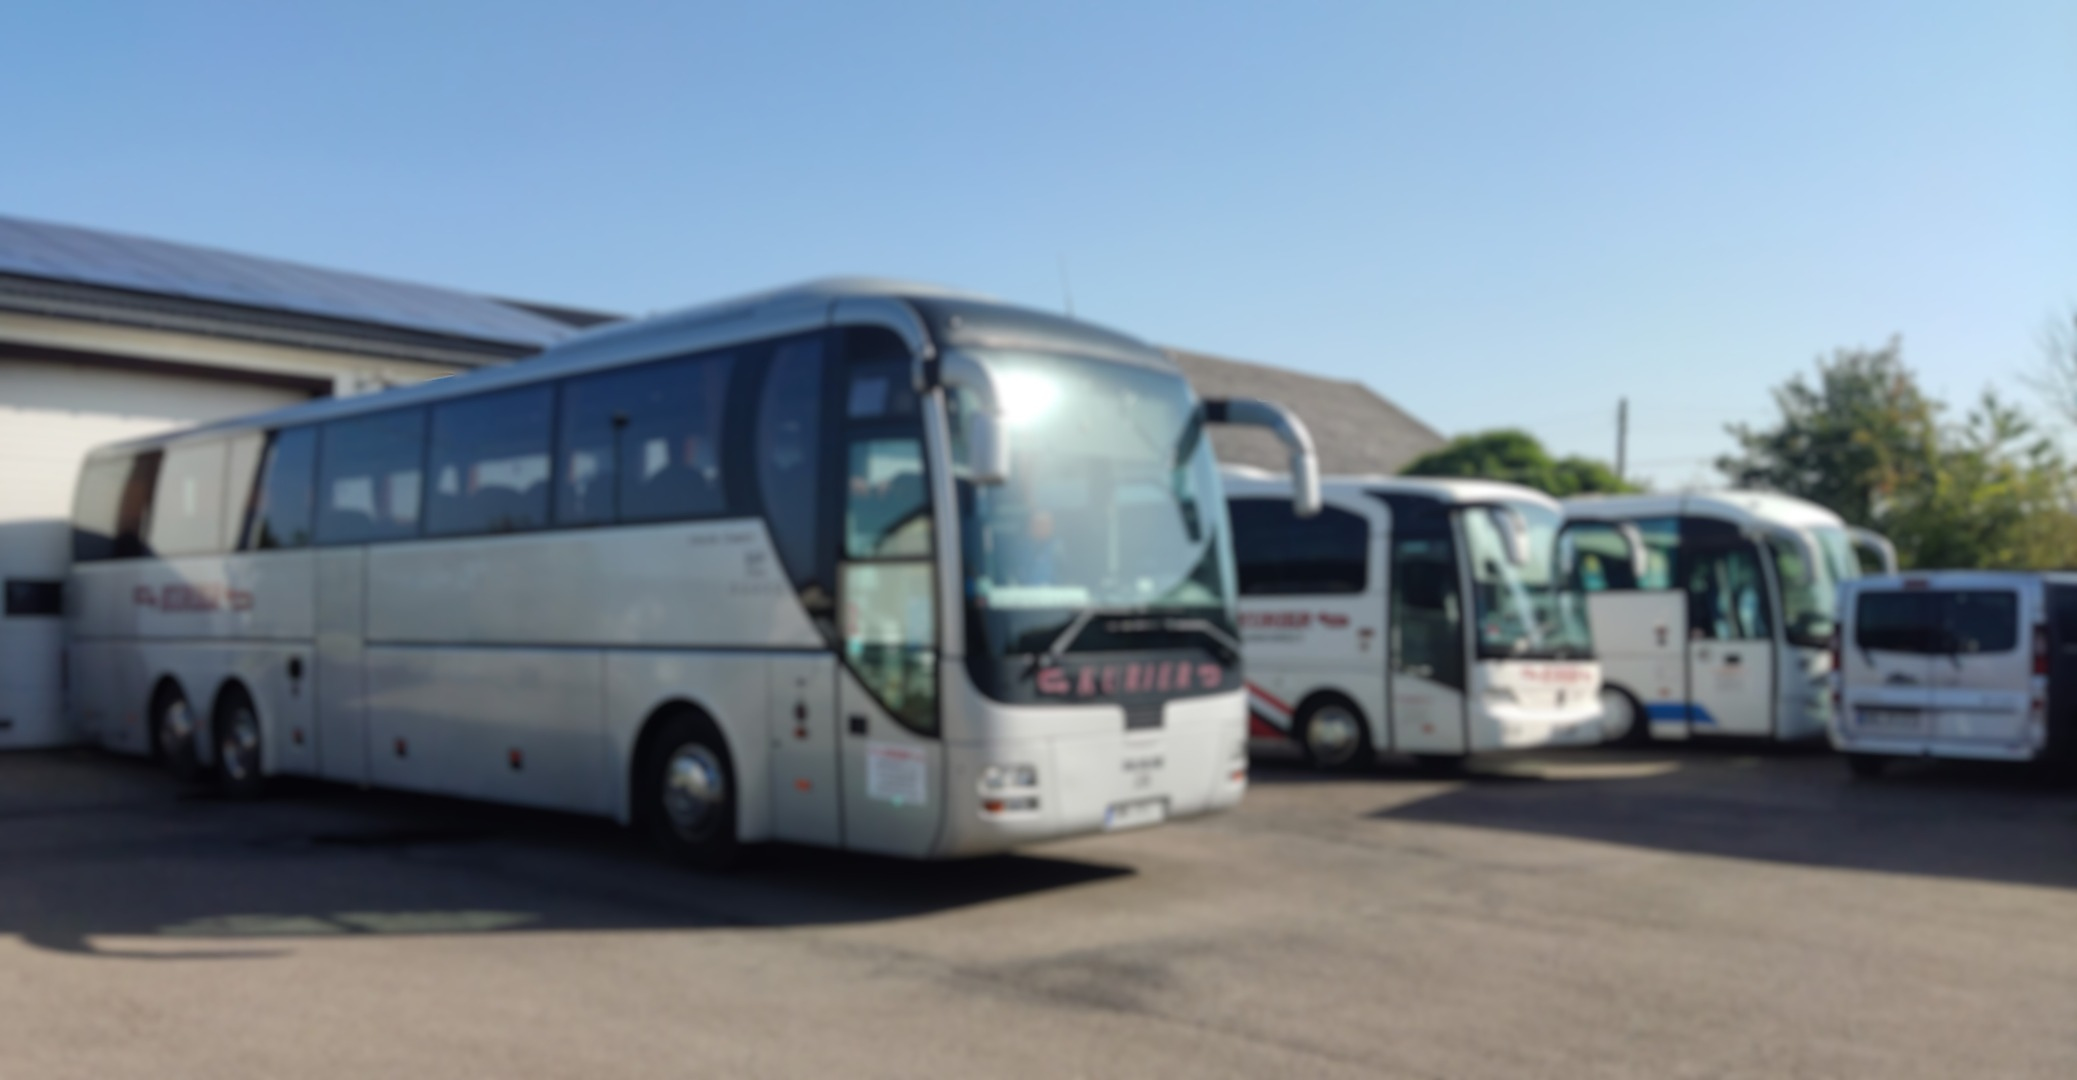
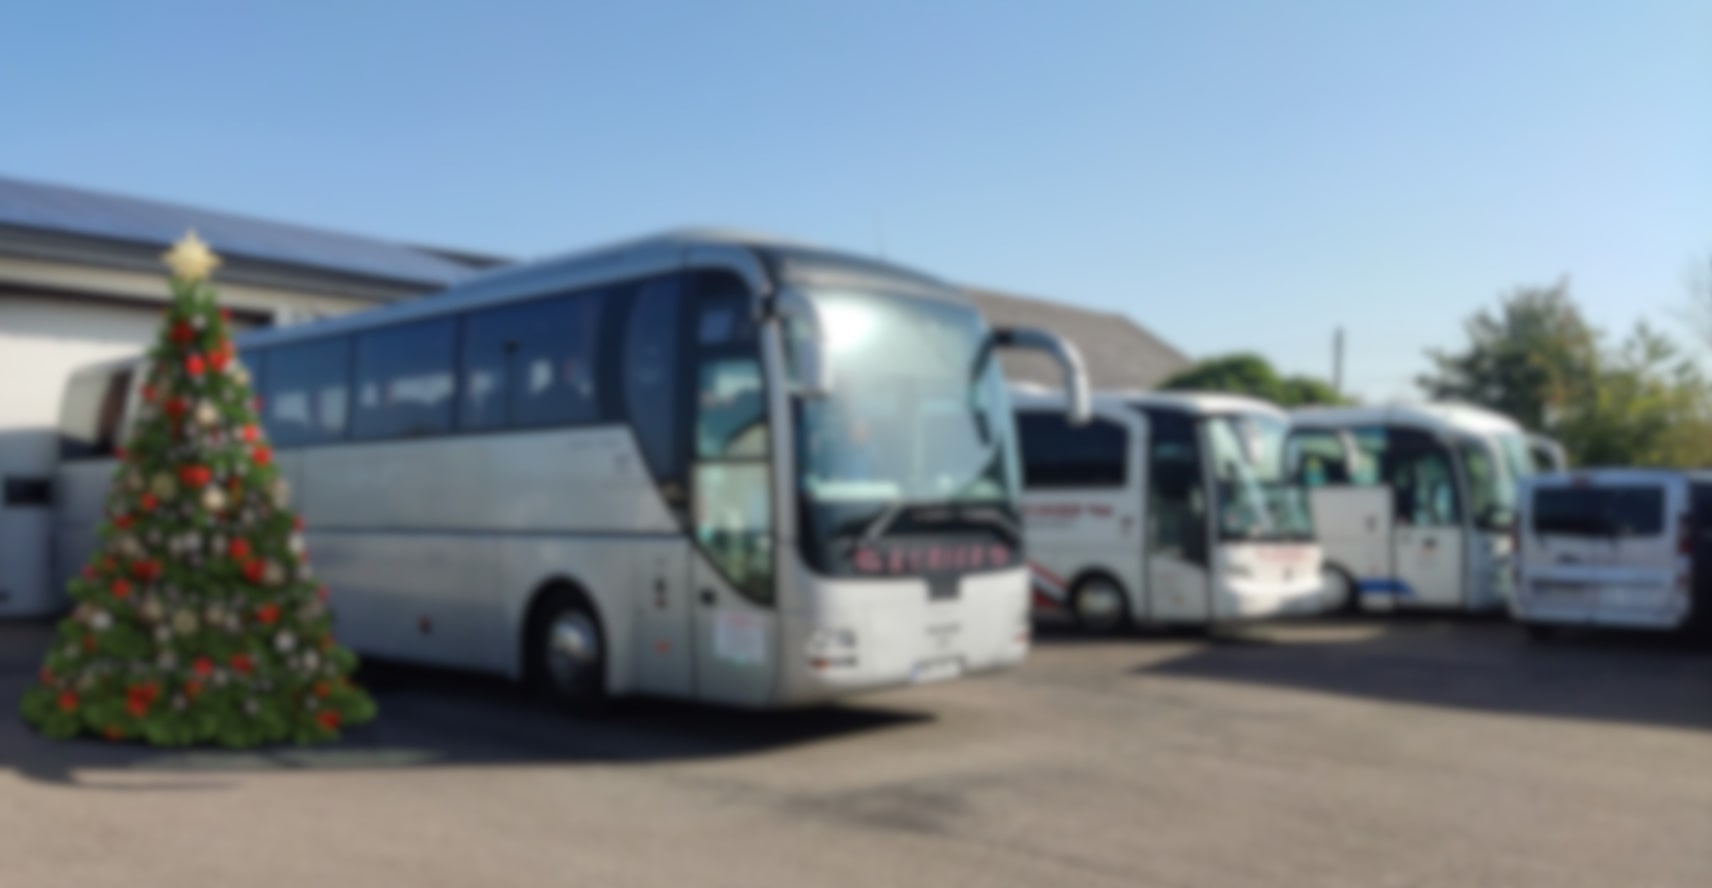
christmas theme added

diff --git a/src/Content/Aktualnosci/MessagePage/index.js b/src/Content/Aktualnosci/MessagePage/index.js
@@ -227,45 +227,14 @@ const MessagePage = () => {
                                 <Photo src={informationObject.photo} alt="Logo" />
                                 <Container>
                                     <Bigger>Drodzy Pasażerowie,</Bigger><br />
-                                    Z okazji Świąt Bożego Narodzenia oraz Nowego Roku życzymy naszym Klientom oraz Współpracownikom zdrowia, szczęścia i spełnienia marzeń. Niech ten czas będzie pełen spokoju, radości i rodzinnego ciepła. 🎄✨<br />
+                                    Z okazji Świąt Bożego Narodzenia oraz nadchodzącego Nowego Roku życzymy naszym Klientom i Współpracownikom chwil wytchnienia, dobrej energii i powodów do uśmiechu. Niech święta przyniosą spokój, a Nowy Rok nowe możliwości i spełnione plany. 🎄✨<br />
                                     <br />
-                                    Przypominamy również o skróconym rozkładzie jazdy w dniach 24 i 31 grudnia 2024 roku:<br />
+                                    Przypominamy również o skróconym rozkładzie jazdy w dniach 24 i 31 grudnia 2025 roku:<br />
                                     <br />
                                     Wyjazdy z Moniek: 05:15, 07:25, 10:05, 12:20, 14:40<br />
                                     Wyjazdy z Białegostoku: 06:20, 08:35, 11:15, 13:35, 15:45<br />
                                     <br />
-                                    <b>W dniu 24.12.2024 biuro będzie nieczynne.</b><br />
-                                    <br />
                                     <b> Wesołych Świąt i Szczęśliwego Nowego Roku!</b>
-                                </Container>
-                            </Content>
-                        </>
-                    }
-                />
-            </>
-        );
-    if (id === 'nowy-autobus')
-        return (
-            <>
-                <Section
-                    title={informationObject.title}
-                    content={
-                        <>
-                            <Date>{informationObject.date}</Date>
-                            <Content>
-                                <Photo src={informationObject.photo} alt="Autobus" />
-                                <Container>
-                                    <Bigger>Drodzy Pasażerowie,</Bigger>
-                                    <p>Z radością informujemy, że od teraz na trasie Mońki - Białystok będzie kursował nasz nowy, nowoczesny autobus Iveco Crossway!</p>
-                                    <p>Nowy pojazd to ulepszona wersja obecnie używanych autobusów, oferująca większy komfort i udogodnienia dla naszych pasażerów.</p>
-                                    <Bigger>Co nowego?</Bigger>
-                                    <ul>
-                                        <li>System ADAS – Zaawansowany system, który analizuje sytuację na drodze i dba o bezpieczeństwo. Funkcje, takie jak awaryjne hamowanie, monitorowanie martwego pola i rozpoznawanie znaków, wspierają kierowcę w czasie rzeczywistym. </li>
-                                        <li>Gniazdka USB - dzięki czemu możesz naładować swój telefon lub inne urządzenia mobilne w trakcie podróży.</li>
-                                        <li>Większy komfort podróży – nowoczesne, ergonomiczne siedzenia i wydajna klimatyzacja.</li>
-                                        <li>Ciche i płynne działanie – zapewniające jeszcze bardziej przyjemną podróż.</li>
-                                    </ul>
-                                    <p>Zapraszamy do wypróbowania naszego nowego autobusu!</p>
                                 </Container>
                             </Content>
                         </>

diff --git a/src/Content/Aktualnosci/News.js b/src/Content/Aktualnosci/News.js
@@ -7,6 +7,13 @@ import backToSchool from "./images/backToSchool.png"
 
 export const news = [
     {
+        id: 'zyczenia-swiateczne',
+        title: 'Życzenia Świąteczne',
+        firstSentence: 'Z okazji Świąt Bożego Narodzenia oraz nadchodzącego Nowego Roku...',
+        date: '24-12-2025',
+        photo: swieta,
+    },
+    {
         id: 'przypomnienie-nowy-rok-szkolny',
         title: 'Zbliża się nowy rok szkolny – czas na zakup biletów miesięcznych!',
         firstSentence: 'Przypominamy dzieciom, młodzieży i ich rodzicom, że nowy rok...',
@@ -40,12 +47,5 @@ export const news = [
         firstSentence: 'Zapraszamy na wycieczkę Wilno – Jarmark Kaziukowy...',
         date: '17-01-2025',
         photo: jarmark,
-    },
-    {
-        id: 'zyczenia-swiateczne',
-        title: 'Życzenia świąteczne',
-        firstSentence: 'Z okazji Świąt Bożego Narodzenia oraz Nowego Roku życzymy naszym Klientom...',
-        date: '23-12-2024',
-        photo: swieta,
     },
 ];
